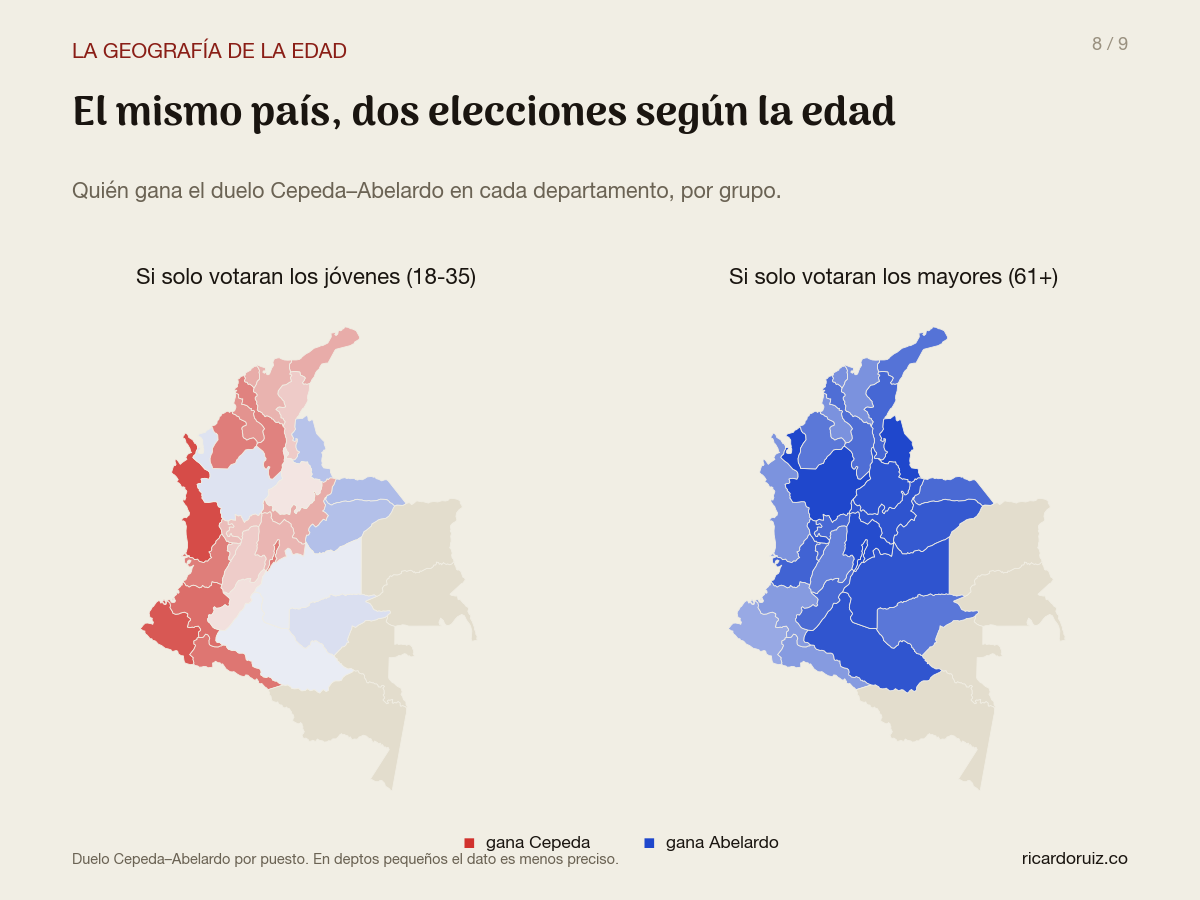
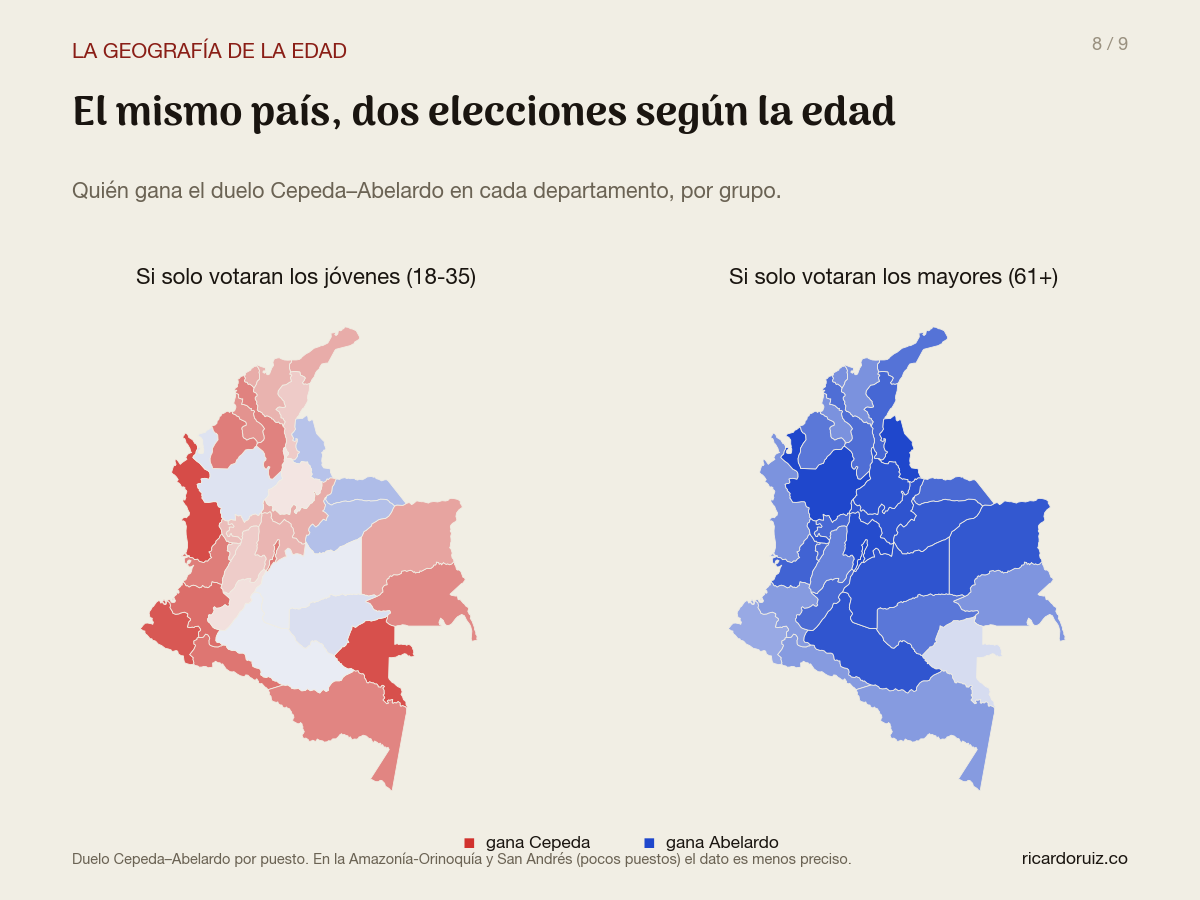
edades-1v: mapa por edad completo 33/33 deptos (fix Amazonía-Orinoquía vacía)
Guainía, Vaupés, Vichada, Amazonas y San Andrés quedaban grises (<20 puestos
en muestra EI). Ahora se estiman con muestra ampliada (piso 50 votos, semilla
hasta mun), prior recentrado al resultado global del propio depto (swing
uniforme; no heredan prior regional ajeno) y shrink 0.10 (robust=2). Hallazgo
nuevo visible: Vaupés es el mejor registro de Cepeda en 61+ (45% del duelo) y
aun así pierde la franja — "Abelardo gana 61+ en todos" se sostiene 33/33.

Changed region(s): [[0.7092, 0.56, 0.8942, 0.8711], [0.2158, 0.56, 0.4008, 0.8711], [0.2775, 0.9333, 0.7092, 0.9644]]

diff --git a/edades-1v.html b/edades-1v.html
@@ -173,10 +173,10 @@
     </figure>
 
     <h2>Dos países según la edad</h2>
-    <p>Llevado al mapa, el hallazgo da para dos países distintos. <b>Si solo votaran los jóvenes (18-35), Cepeda ganaría el duelo en casi todo el país</b> — con las excepciones reveladoras de Antioquia y los Llanos, donde Abelardo aguanta incluso entre los jóvenes. <b>Si solo votaran los mayores de 60, Abelardo ganaría en todos los departamentos</b> — hasta en Nariño, Cauca y Sucre, los bastiones históricos de la izquierda, donde es donde menos mal le va a Cepeda con los mayores, pero no le alcanza.</p>
+    <p>Llevado al mapa, el hallazgo da para dos países distintos. <b>Si solo votaran los jóvenes (18-35), Cepeda ganaría el duelo en casi todo el país</b> — con las excepciones reveladoras de Antioquia y los Llanos, donde Abelardo aguanta incluso entre los jóvenes. <b>Si solo votaran los mayores de 60, Abelardo ganaría en todos los departamentos</b> — incluso en los bastiones de la izquierda: el mejor registro de Cepeda entre mayores es Vaupés, el departamento más cepedista del país, donde llega al 45% del duelo… y aun así pierde esa franja.</p>
     <figure>
       <img src="analisis-edades/08_mapa_edad.png" alt="Dos mapas de Colombia: ganador del duelo Cepeda-Abelardo entre los jóvenes y entre los mayores, por departamento" loading="lazy" />
-      <figcaption>Quién gana el duelo Cepeda–Abelardo en cada departamento, entre los 18-35 y entre los 61+. En departamentos pequeños el dato es menos preciso.</figcaption>
+      <figcaption>Quién gana el duelo Cepeda–Abelardo en cada departamento, entre los 18-35 y entre los 61+. En la Amazonía-Orinoquía y San Andrés (pocos puestos) la estimación usa muestra ampliada y es menos precisa.</figcaption>
     </figure>
 
     <h2>Cómo lo hicimos (y qué no se puede afirmar)</h2>

diff --git a/tools/edad-1v-2026/fit_ei_geo.py b/tools/edad-1v-2026/fit_ei_geo.py
@@ -160,21 +160,60 @@ def main():
     pd.DataFrame(rows).to_csv(os.path.join(OUT, "ei-ciudades.csv"), index=False)
 
     # ---------------- departamentos (head-to-head, para mapas) ----------------
+    # Deptos pequeños (Amazonía/Orinoquía/San Andrés): muestra ampliada (piso
+    # de 50 votos, semilla hasta mun), prior RECENTRADO al resultado global
+    # del propio depto (swing uniforme sobre el patrón etario nacional — no se
+    # les puede imponer el prior de otra región) y shrink fuerte. robust=2.
+    meta2, W5x, Y6x, Tx = load_year(2026, min_votes=50,
+                                    seeds=("puesto", "zona", "mun"))
+    meta2 = meta2.reset_index(drop=True)
+    meta2["dep"] = meta2["pcode"].str[:2]
+    Wx = to3(W5x)
+    cepx, abex = Y6x[:, 0], Y6x[:, 1]
+    totx = np.maximum(cepx + abex, 1e-9)
+    Y2x = np.column_stack([cepx / totx, abex / totx])
+    T2x = totx * Tx
+    nat_obs = (Y2[:, 0] * T2).sum() / T2.sum()
+
     drows = []
     print("\nDEPARTAMENTOS (Cepeda % entre los dos punteros · jóvenes / mayores):")
     for dep, (name, geo) in DEP.items():
         mask = (meta["dep"] == dep).values
         npu = mask.sum()
-        if npu < 20:
-            drows.append(dict(dep=dep, dep_name=name, geoname=geo, npuestos=npu, robust=0))
-            continue
-        nb = 120 if npu < 100 else 200
-        Bn, lo, hi, err = fit_h2h(mask, nb)
+        if npu >= 20:
+            nb = 120 if npu < 100 else 200
+            Bn, lo, hi, err = fit_h2h(mask, nb)
+            rb = 1
+        else:
+            mask2 = (meta2["dep"] == dep).values
+            np2 = mask2.sum()
+            if np2 < 4:
+                drows.append(dict(dep=dep, dep_name=name, geoname=geo,
+                                  npuestos=npu, robust=0))
+                continue
+            dep_obs = (Y2x[mask2, 0] * T2x[mask2]).sum() / T2x[mask2].sum()
+            B0d = B0.copy()
+            B0d[0] = np.clip(B0[0] + (dep_obs - nat_obs), 0.02, 0.98)
+            B0d[1] = 1 - B0d[0]
+            lam = 0.10 * T2x[mask2].sum()
+            Bn = fit_qp_reg(Wx[mask2], Y2x[mask2], T2x[mask2], B0d, lam)
+            boots = []
+            for _ in range(80):
+                idx = np.where(mask2)[0]
+                idx = idx[RNG.integers(0, len(idx), len(idx))]
+                boots.append(fit_qp_reg(Wx[idx], Y2x[idx], T2x[idx], B0d,
+                                        0.10 * T2x[idx].sum(), iters=1200))
+            boots = np.stack(boots)
+            lo = np.percentile(boots, 2.5, axis=0)
+            hi = np.percentile(boots, 97.5, axis=0)
+            npu, rb = np2, 2
         for a, g in enumerate(GNAMES):
-            drows.append(dict(dep=dep, dep_name=name, geoname=geo, npuestos=npu, robust=1,
-                              grupo=g, cepeda=Bn[0, a], abelardo=Bn[1, a],
+            drows.append(dict(dep=dep, dep_name=name, geoname=geo, npuestos=npu,
+                              robust=rb, grupo=g, cepeda=Bn[0, a], abelardo=Bn[1, a],
                               cep_lo=lo[0, a], cep_hi=hi[0, a]))
-        print(f"  {name:20} ({npu:3}p) jóvenes {Bn[0,0]*100:3.0f} · mayores {Bn[0,2]*100:3.0f}")
+        tag = "" if rb == 1 else "  [muestra ampliada + prior recentrado]"
+        print(f"  {name:20} ({npu:3}p) jóvenes {Bn[0,0]*100:3.0f} · "
+              f"mayores {Bn[0,2]*100:3.0f}{tag}")
     pd.DataFrame(drows).to_csv(os.path.join(OUT, "ei-deptos.csv"), index=False)
     print("\nei-ciudades.csv + ei-deptos.csv escritos.")
 

diff --git a/tools/edad-1v-2026/fit_ei.py b/tools/edad-1v-2026/fit_ei.py
@@ -101,14 +101,14 @@ def fit_qp(W, Y, T, iters=3000, tol=1e-10):
 
 
 # ----------------------------------------------------------------- datos
-def load_year(year):
+def load_year(year, min_votes=200, seeds=("puesto", "zona")):
     """-> df con pcode, mun, stratum, T, W (shares 5 grupos), Y (shares)."""
     if year == 2022:
         e = pd.read_csv(os.path.join(OUT, "edad-2022-puesto.csv"), dtype={"pcode": str})
         v = pd.read_csv(os.path.join(OUT, "votos-2022-puesto.csv"), dtype={"pcode": str})
         m = e.merge(v, on="pcode")
         m["ratio"] = m["Cantidad de Sufragantes"] / m["total_votos"].clip(lower=1)
-        m = m[m["ratio"].between(0.70, 1.10) & (m["total_votos"] >= 200)].copy()
+        m = m[m["ratio"].between(0.70, 1.10) & (m["total_votos"] >= min_votes)].copy()
         raw = m[BANDS].values.astype(float)
         depname = m["depname"]
         cands = ["petro", "fico", "rodolfo", "fajardo", "blanco"]
@@ -118,9 +118,9 @@ def load_year(year):
         e = pd.read_csv(os.path.join(OUT, "edad-2022-puesto.csv"), dtype={"pcode": str})
         dep2name = (e.assign(dep=e["pcode"].str[:2])
                     .groupby("dep")["depname"].agg(lambda s: s.mode()[0]))
-        m = w[w["seed_level"].isin(["puesto", "zona"])].merge(v, on="pcode",
+        m = w[w["seed_level"].isin(list(seeds))].merge(v, on="pcode",
                                                               suffixes=("", "_v"))
-        m = m[m["total_votos"] >= 200].copy()
+        m = m[m["total_votos"] >= min_votes].copy()
         raw = m[[f"b{b}" for b in range(10)]].values.astype(float)
         depname = m["pcode"].str[:2].map(dep2name)
         cands = ["cepeda", "abelardo", "paloma", "fajardo26", "blanco"]

diff --git a/tools/edad-1v-2026/report_carrusel.py b/tools/edad-1v-2026/report_carrusel.py
@@ -448,7 +448,7 @@ def slide_ciudades(n):
 # ============================================================ 08 MAPA EDAD
 def slide_mapa_edad(n):
     df = pd.read_csv(os.path.join(OUT, "ei-deptos.csv"))
-    df = df[df.robust == 1]
+    df = df[df.robust >= 1]    # robust=2: deptos pequeños, muestra ampliada
     yng = dict(zip(df[df.grupo == "18-35"]["geoname"], df[df.grupo == "18-35"]["cepeda"]))
     old = dict(zip(df[df.grupo == "61+"]["geoname"], df[df.grupo == "61+"]["cepeda"]))
 
@@ -470,8 +470,8 @@ def slide_mapa_edad(n):
     fig.text(0.405, 0.058, "gana Cepeda", color=FG, fontsize=12.5, ha="left")
     fig.text(0.535, 0.058, "■", color=BLUE, fontsize=15, ha="left")
     fig.text(0.555, 0.058, "gana Abelardo", color=FG, fontsize=12.5, ha="left")
-    foot(fig, n, extra="Duelo Cepeda–Abelardo por puesto. En deptos pequeños el "
-         "dato es menos preciso.")
+    foot(fig, n, extra="Duelo Cepeda–Abelardo por puesto. En la Amazonía-Orinoquía "
+         "y San Andrés (pocos puestos) el dato es menos preciso.")
     save(fig, "08_mapa_edad.png")
 
 

diff --git a/CLAUDE.md b/CLAUDE.md
@@ -632,6 +632,13 @@ light+dark).
   · Cartagena 13 · B/manga 6 · Medellín <5 (genuinamente al piso).
   Consistencia implícito/observado ≤1.3pp. Salidas `ei-ciudades.csv` +
   `ei-deptos.csv`. Slide 07 muestra `<5`/`>95` bajo ese umbral.
+  **Deptos pequeños** (Guainía·Vaupés·Vichada·Amazonas·San Andrés, <20 puestos
+  en muestra): muestra ampliada (`load_year(min_votes=50, seeds=+mun)`) +
+  **prior recentrado** al resultado global del depto (swing uniforme sobre el
+  patrón etario nacional; NO heredan prior regional ajeno) + shrink 0.10 →
+  `robust=2` en ei-deptos.csv. Vaupés es el mejor registro de Cepeda en 61+
+  (45% del duelo) y aun así pierde la franja → "Abelardo gana 61+ en TODOS"
+  se sostiene en 33/33.
 - `report_carrusel.py` — **9 slides Twitter-first**: apaisadas 1200×900 (4:3)
   salvo la 02 (flechas, vertical 1080×1350). Identidad de carruseles previos:
   **títulos Arima 700** (TTFs estáticas en `tools/edad-1v-2026/fonts/`, bajadas